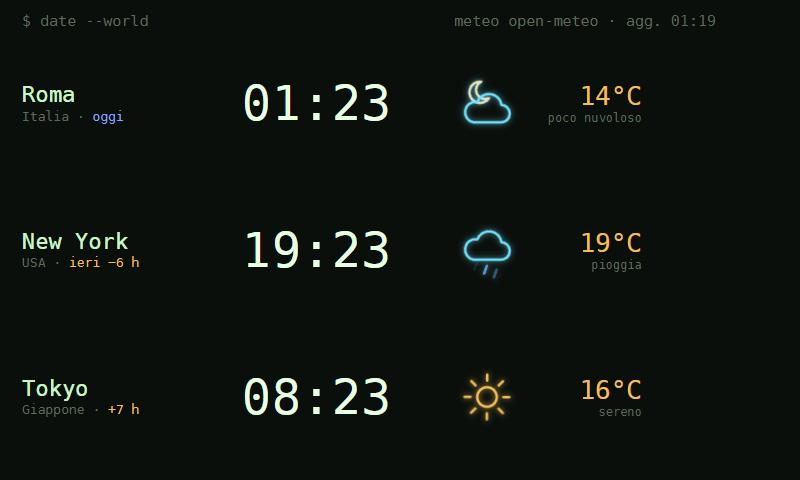
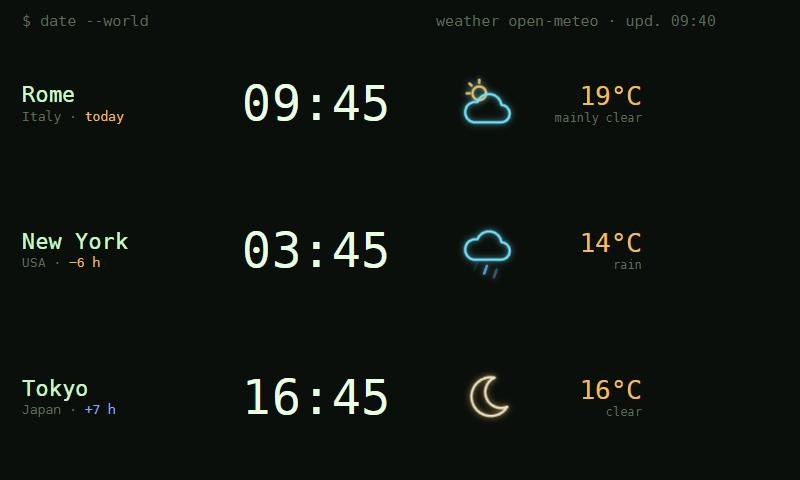
English by default, with an English/Italian language setting
All screen texts, settings labels and alerts now come from app/i18n.ts.
Pick the language in the app settings (default English); the display
switches at once, the setting labels after restarting DeskThing.
Apps are labelled Pi Status, Stack Status and World Clock (app ids
unchanged). Screenshots retaken in English.

diff --git a/app/server/index.ts b/app/server/index.ts
@@ -1,5 +1,6 @@
 import { createDeskThing } from "@deskthing/server";
 import { DESKTHING_EVENTS, SETTING_TYPES } from "@deskthing/types";
+import { isLang, LANGUAGE_OPTIONS, t, type Key, type Lang } from "../i18n";
 import { readFileSync } from "node:fs";
 import { join } from "node:path";
 
@@ -10,22 +11,23 @@ const DeskThing = createDeskThing();
 
 const DEFAULTS: City[] = [
   // defaults: change them in the app settings
-  { name: "Roma", country: "Italia", lat: 41.89193, lon: 12.51133, tz: "Europe/Rome" },
+  { name: "Rome", country: "Italy", lat: 41.89193, lon: 12.51133, tz: "Europe/Rome" },
   { name: "New York", country: "USA", lat: 40.71427, lon: -74.00597, tz: "America/New_York" },
-  { name: "Tokyo", country: "Giappone", lat: 35.6895, lon: 139.69171, tz: "Asia/Tokyo" },
+  { name: "Tokyo", country: "Japan", lat: 35.6895, lon: 139.69171, tz: "Asia/Tokyo" },
 ];
 const WEATHER_MS = 15 * 60 * 1000;
 
 let cities: City[] = DEFAULTS.map((c) => ({ ...c }));
 let weather: Weather[] = [null, null, null];
 let weatherAt = 0;
+let lang: Lang = "en";
 let weatherTimer: ReturnType<typeof setInterval> | null = null;
 let sendTimer: ReturnType<typeof setInterval> | null = null;
 
 // ---------------------------------------------------------------- jump to other apps
 // While the clock is on screen, important events switch the Car Thing to the
 // app that shows them: Pi questions / finished work -> Pi Status, a stack
-// down -> Homelab.
+// down -> Stack Status (app id "homelab").
 declare const __dirname: string;
 const HOMELAB_ALERT = join(__dirname, "..", "..", "homelab", "alert.json");
 let piUrl = "http://pi-host.local:8765/status"; // example: set yours in the app settings
@@ -51,8 +53,8 @@ async function watchPi() {
       next.set(s.pid, s.state);
       const prev = piStates.get(s.pid);
       if (piFirst || prev === undefined || !switchPi) continue;
-      if (prev !== "asking" && s.state === "asking") jump("pistatus", "Pi ti chiede · " + s.label);
-      else if (prev === "busy" && s.state === "idle") jump("pistatus", "Pi ha finito · " + s.label);
+      if (prev !== "asking" && s.state === "asking") jump("pistatus", t(lang, "piAsks", { label: s.label }));
+      else if (prev === "busy" && s.state === "idle") jump("pistatus", t(lang, "piDone", { label: s.label }));
     }
     piStates = next;
     piFirst = false;
@@ -75,7 +77,7 @@ function watchHomelab() {
   }
   if (at > lastAlertAt) {
     lastAlertAt = at;
-    if (switchHomelab) jump("homelab", "⚠ " + (alert?.text || "allarme Homelab"));
+    if (switchHomelab) jump("homelab", "⚠ " + (alert?.text || t(lang, "stackAlert")));
   }
 }
 
@@ -125,12 +127,17 @@ function send() {
       cities: cities.map((c) => ({ name: c.name, country: c.country, offset: offsetMinutes(c.tz) })),
       weather,
       weatherAt,
+      lang,
     },
   });
 }
 
 function readSettings(s: any) {
   if (!s) return;
+  if (isLang(s.language?.value) && s.language.value !== lang) {
+    lang = s.language.value;
+    send(); // the display follows at once; setting labels at next start
+  }
   if (typeof s.switch_pi?.value === "boolean") switchPi = s.switch_pi.value;
   if (typeof s.switch_homelab?.value === "boolean") switchHomelab = s.switch_homelab.value;
   if (typeof s.pi_url?.value === "string" && s.pi_url.value) piUrl = s.pi_url.value;
@@ -152,20 +159,35 @@ function readSettings(s: any) {
 }
 
 DeskThing.on(DESKTHING_EVENTS.START, async () => {
+  const before = (await DeskThing.getSettings()) as any;
+  if (isLang(before?.language?.value)) lang = before.language.value;
   const settings: any = {};
+  settings.language = {
+    id: "language",
+    label: t(lang, "setLanguage"),
+    description: t(lang, "setLanguageDesc"),
+    type: SETTING_TYPES.SELECT,
+    value: lang,
+    options: LANGUAGE_OPTIONS,
+  };
   DEFAULTS.forEach((c, i) => {
     const n = i + 1;
-    const add = (key: string, label: string, value: any, type = SETTING_TYPES.STRING) =>
-      (settings["city" + n + "_" + key] = { id: "city" + n + "_" + key, label: "Città " + n + " · " + label, type, value });
-    add("name", "nome", c.name);
-    add("country", "sottotitolo", c.country);
-    add("lat", "latitudine", String(c.lat));
-    add("lon", "longitudine", String(c.lon));
-    add("tz", "fuso orario (es. Europe/Rome)", c.tz);
+    const add = (key: string, value: any, type = SETTING_TYPES.STRING) =>
+      (settings["city" + n + "_" + key] = {
+        id: "city" + n + "_" + key,
+        label: t(lang, "setCity", { n, field: t(lang, ("f_" + key) as Key) }),
+        type,
+        value,
+      });
+    add("name", c.name);
+    add("country", c.country);
+    add("lat", String(c.lat));
+    add("lon", String(c.lon));
+    add("tz", c.tz);
   });
-  settings.switch_pi = { id: "switch_pi", label: "Passa a Pi Status (domande e lavori finiti)", type: SETTING_TYPES.BOOLEAN, value: true };
-  settings.switch_homelab = { id: "switch_homelab", label: "Passa a Homelab (servizi giù)", type: SETTING_TYPES.BOOLEAN, value: true };
-  settings.pi_url = { id: "pi_url", label: "Indirizzo stato Pi", type: SETTING_TYPES.STRING, value: piUrl };
+  settings.switch_pi = { id: "switch_pi", label: t(lang, "setSwitchPi"), type: SETTING_TYPES.BOOLEAN, value: true };
+  settings.switch_homelab = { id: "switch_homelab", label: t(lang, "setSwitchStack"), type: SETTING_TYPES.BOOLEAN, value: true };
+  settings.pi_url = { id: "pi_url", label: t(lang, "setPiUrl"), type: SETTING_TYPES.STRING, value: piUrl };
   await DeskThing.initSettings(settings);
   readSettings(await DeskThing.getSettings());
   fetchWeather();

diff --git a/app/client/main.ts b/app/client/main.ts
@@ -1,8 +1,9 @@
 import { createDeskThing } from "@deskthing/client";
+import { isLang, t, type Key, type Lang } from "../i18n";
 
 type CityInfo = { name: string; country: string; offset: number };
 type Weather = { temp: number; code: number; isDay: boolean } | null;
-type Clock = { now: number; cities: CityInfo[]; weather: Weather[]; weatherAt: number };
+type Clock = { now: number; cities: CityInfo[]; weather: Weather[]; weatherAt: number; lang?: Lang };
 
 const DeskThing = createDeskThing();
 
@@ -14,6 +15,8 @@ const $ = (id: string) => document.getElementById(id) as HTMLElement;
 
 let data: Clock | null = null;
 let skew = 0; // PC time minus Car Thing time (the device clock is not synced)
+let lang: Lang = "en";
+const tr = (key: Key, vars?: Record<string, string | number>) => t(lang, key, vars);
 
 // ---------------------------------------------------------------- neon icons
 
@@ -37,17 +40,17 @@ const ICONS: Record<string, string> = {
   fog: svg('<line class="fog1" stroke="#9aa6b2" x1="12" y1="24" x2="52" y2="24"/><line class="fog2" stroke="#9aa6b2" x1="8" y1="32" x2="48" y2="32"/><line class="fog1" stroke="#9aa6b2" x1="16" y1="40" x2="56" y2="40"/>'),
 };
 
-/** WMO weather code -> icon + Italian description. */
+/** WMO weather code -> icon + short description. */
 function describe(w: Weather): { icon: string; text: string } {
   if (!w) return { icon: "", text: "" };
   const c = w.code;
-  if (c === 0) return { icon: w.isDay ? "sun" : "moon", text: "sereno" };
-  if (c === 1 || c === 2) return { icon: w.isDay ? "pcd" : "pcn", text: c === 1 ? "quasi sereno" : "poco nuvoloso" };
-  if (c === 3) return { icon: "cloud", text: "coperto" };
-  if (c === 45 || c === 48) return { icon: "fog", text: "nebbia" };
-  if ((c >= 51 && c <= 57) || (c >= 61 && c <= 67) || (c >= 80 && c <= 82)) return { icon: "rain", text: c < 60 ? "pioviggine" : c >= 80 ? "rovesci" : "pioggia" };
-  if ((c >= 71 && c <= 77) || c === 85 || c === 86) return { icon: "snow", text: "neve" };
-  if (c >= 95) return { icon: "storm", text: "temporale" };
+  if (c === 0) return { icon: w.isDay ? "sun" : "moon", text: tr("w_clear") };
+  if (c === 1 || c === 2) return { icon: w.isDay ? "pcd" : "pcn", text: c === 1 ? tr("w_mainlyClear") : tr("w_partlyCloudy") };
+  if (c === 3) return { icon: "cloud", text: tr("w_overcast") };
+  if (c === 45 || c === 48) return { icon: "fog", text: tr("w_fog") };
+  if ((c >= 51 && c <= 57) || (c >= 61 && c <= 67) || (c >= 80 && c <= 82)) return { icon: "rain", text: c < 60 ? tr("w_drizzle") : c >= 80 ? tr("w_showers") : tr("w_rain") };
+  if ((c >= 71 && c <= 77) || c === 85 || c === 86) return { icon: "snow", text: tr("w_snow") };
+  if (c >= 95) return { icon: "storm", text: tr("w_storm") };
   return { icon: "cloud", text: "" };
 }
 
@@ -61,12 +64,12 @@ function localParts(utcMs: number, offsetMin: number) {
 }
 
 function diffLabel(i: number, now: number): string {
-  if (!data || i === 0) return "oggi";
+  if (!data || i === 0) return tr("today");
   const base = data.cities[0];
   const c = data.cities[i];
   const hours = (c.offset - base.offset) / 60;
   const dayDiff = localParts(now, c.offset).day - localParts(now, base.offset).day;
-  const day = dayDiff > 0 ? "domani " : dayDiff < 0 ? "ieri " : "";
+  const day = dayDiff > 0 ? tr("tomorrow") + " " : dayDiff < 0 ? tr("yesterday") + " " : "";
   const h = (hours > 0 ? "+" : hours < 0 ? "−" : "±") + (Math.abs(hours) % 1 ? Math.abs(hours).toFixed(1) : Math.abs(hours)) + " h";
   return day + h;
 }
@@ -106,13 +109,17 @@ function render() {
   });
   if (data.weatherAt) {
     const u = localParts(data.weatherAt, data.cities[0].offset);
-    $("upd").textContent = "meteo open-meteo · agg. " + two(u.h) + ":" + two(u.m);
+    $("upd").textContent = tr("updated", { time: two(u.h) + ":" + two(u.m) });
   }
 }
 
 DeskThing.on("clock", (msg: any) => {
   data = msg.payload as Clock;
   skew = data.now - Date.now();
+  if (isLang(data.lang) && data.lang !== lang) {
+    lang = data.lang;
+    document.documentElement.lang = lang;
+  }
   render();
 });
 

diff --git a/app/i18n.ts b/app/i18n.ts
@@ -1,0 +1,90 @@
+// User-facing strings, English (default) and Italian.
+// Used by both the server (settings labels, switch banners) and the client.
+
+export type Lang = "en" | "it";
+
+const STRINGS = {
+  en: {
+    // weather
+    w_clear: "clear",
+    w_mainlyClear: "mainly clear",
+    w_partlyCloudy: "partly cloudy",
+    w_overcast: "overcast",
+    w_fog: "fog",
+    w_drizzle: "drizzle",
+    w_showers: "showers",
+    w_rain: "rain",
+    w_snow: "snow",
+    w_storm: "thunderstorm",
+    // screen
+    connecting: "connecting…",
+    today: "today",
+    tomorrow: "tomorrow",
+    yesterday: "yesterday",
+    updated: "weather open-meteo · upd. {time}",
+    piAsks: "Pi is asking · {label}",
+    piDone: "Pi is done · {label}",
+    stackAlert: "Stack Status alert",
+    // settings
+    setLanguage: "Language",
+    setLanguageDesc: "Language of the app (setting labels change after restarting DeskThing)",
+    setCity: "City {n} · {field}",
+    f_name: "name",
+    f_country: "subtitle",
+    f_lat: "latitude",
+    f_lon: "longitude",
+    f_tz: "time zone (e.g. Europe/Rome)",
+    setSwitchPi: "Switch to Pi Status (questions and finished work)",
+    setSwitchStack: "Switch to Stack Status (services down)",
+    setPiUrl: "Pi status URL",
+  },
+  it: {
+    w_clear: "sereno",
+    w_mainlyClear: "quasi sereno",
+    w_partlyCloudy: "poco nuvoloso",
+    w_overcast: "coperto",
+    w_fog: "nebbia",
+    w_drizzle: "pioviggine",
+    w_showers: "rovesci",
+    w_rain: "pioggia",
+    w_snow: "neve",
+    w_storm: "temporale",
+    connecting: "collegamento…",
+    today: "oggi",
+    tomorrow: "domani",
+    yesterday: "ieri",
+    updated: "meteo open-meteo · agg. {time}",
+    piAsks: "Pi ti chiede · {label}",
+    piDone: "Pi ha finito · {label}",
+    stackAlert: "allarme Stack Status",
+    setLanguage: "Lingua",
+    setLanguageDesc: "Lingua dell'app (le voci delle impostazioni cambiano dopo il riavvio di DeskThing)",
+    setCity: "Città {n} · {field}",
+    f_name: "nome",
+    f_country: "sottotitolo",
+    f_lat: "latitudine",
+    f_lon: "longitudine",
+    f_tz: "fuso orario (es. Europe/Rome)",
+    setSwitchPi: "Passa a Pi Status (domande e lavori finiti)",
+    setSwitchStack: "Passa a Stack Status (servizi giù)",
+    setPiUrl: "Indirizzo stato Pi",
+  },
+};
+
+export type Key = keyof typeof STRINGS.en;
+
+export const LANGUAGE_OPTIONS = [
+  { label: "English", value: "en" },
+  { label: "Italiano", value: "it" },
+];
+
+export function isLang(v: unknown): v is Lang {
+  return v === "en" || v === "it";
+}
+
+/** Translate a key; {placeholders} are filled from vars. */
+export function t(lang: Lang, key: Key, vars: Record<string, string | number> = {}): string {
+  let s: string = (STRINGS[lang] || STRINGS.en)[key] || STRINGS.en[key];
+  for (const k in vars) s = s.split("{" + k + "}").join(String(vars[k]));
+  return s;
+}

diff --git a/app/client/index.html b/app/client/index.html
@@ -1,9 +1,9 @@
 <!doctype html>
-<html lang="it">
+<html lang="en">
 <head>
 <meta charset="utf-8" />
 <meta name="viewport" content="width=device-width, initial-scale=1" />
-<title>Orologio</title>
+<title>World Clock</title>
 <style>
   * { box-sizing: border-box; margin: 0; padding: 0; }
   html, body { height: 100%; }
@@ -68,7 +68,7 @@
 <body>
   <div class="app">
     <div class="hd"><span>$ date --world</span><span id="upd" class="upd"></span></div>
-    <div id="rows" class="rows"><div class="row"><span class="city">collegamento…</span></div></div>
+    <div id="rows" class="rows"><div class="row"><span class="city">connecting…</span></div></div>
   </div>
   <div id="alert" class="alert"><div id="alert-text"></div></div>
   <script src="./main.js"></script>

diff --git a/README.it.md b/README.it.md
@@ -1,4 +1,4 @@
-# World Clock (Orologio) per DeskThing
+# World Clock per DeskThing
 
 🇬🇧 [Read in English](README.md)
 
@@ -7,7 +7,7 @@ ognuna con la temperatura e un'**icona meteo neon animata**, in stile terminale.
 
 ![Tre città con ora, temperatura e icone meteo neon animate](docs/clock.jpg)
 
-*Screenshot alla risoluzione del Car Thing (800×480), con città di esempio.*
+*Screenshot alla risoluzione del Car Thing (800×480), con città di esempio, in inglese (lingua predefinita).*
 
 - Ora e fuso di ogni città, con la differenza rispetto alla prima ("−6 h", "domani +5 h").
   L'ora legale è gestita in automatico.
@@ -17,6 +17,7 @@ ognuna con la temperatura e un'**icona meteo neon animata**, in stile terminale.
 - Mentre l'orologio è sullo schermo, gli eventi importanti **cambiano app** sul Car Thing:
   Pi fa una domanda o finisce un lavoro → [Pi Status](https://github.com/franzo-ux/deskthing-pi-status);
   un servizio va giù → [Stack Status](https://github.com/franzo-ux/deskthing-stack-status).
+- **Italiano o inglese**: la lingua si sceglie nelle impostazioni (predefinita: inglese).
 
 ## Requisiti
 
@@ -32,10 +33,13 @@ npm run build          # → dist/worldclock
 npm run deploy         # copia l'app in DeskThing e la registra
 ```
 
-Riapri DeskThing e apri **Orologio** sul Car Thing. Per aggiornare in futuro: `npm run build`,
+Riapri DeskThing e apri **World Clock** sul Car Thing. Per aggiornare in futuro: `npm run build`,
 `npm run deploy -- --files`, riavvia DeskThing.
 
-## Impostazioni (DeskThing → App → Orologio)
+## Impostazioni (DeskThing → App → World Clock)
+
+**Language / Lingua**: **English** (predefinita) o **Italiano** (lo schermo cambia subito, le voci
+delle impostazioni dopo il riavvio di DeskThing).
 
 Per ognuna delle 3 città: **nome**, **sottotitolo** (paese/regione), **latitudine**, **longitudine** e
 **fuso orario** (nome IANA, es. `Europe/Rome`, `America/New_York`, `Asia/Tokyo`).
@@ -51,7 +55,7 @@ Cambio automatico di app (facoltativo, servono quelle app installate):
 | Impostazione | Significato |
 |---|---|
 | Passa a Pi Status | passa a Pi Status quando Pi ti chiede qualcosa o finisce |
-| Passa a Homelab | passa a Stack Status quando un servizio va giù |
+| Passa a Stack Status | passa a Stack Status quando un servizio va giù |
 | Indirizzo stato Pi | URL del servizio di stato di Pi, es. `http://pi-host.local:8765/status` |
 
 ## Come funziona

diff --git a/README.md b/README.md
@@ -16,6 +16,7 @@ each with its temperature and an **animated neon weather icon**, in a terminal-s
 - While the clock is on screen, important events **switch the Car Thing** to the app that shows them:
   Pi asks a question or finishes a job → [Pi Status](https://github.com/franzo-ux/deskthing-pi-status);
   a service goes down → [Stack Status](https://github.com/franzo-ux/deskthing-stack-status).
+- **English or Italian**: pick the language in the settings.
 
 ## Requirements
 
@@ -31,10 +32,13 @@ npm run build          # → dist/worldclock
 npm run deploy         # copies the app into DeskThing and registers it
 ```
 
-Start DeskThing and open **Orologio** on the Car Thing. To update later: `npm run build`,
+Start DeskThing and open **World Clock** on the Car Thing. To update later: `npm run build`,
 `npm run deploy -- --files`, restart DeskThing.
 
-## Settings (DeskThing → Apps → Orologio)
+## Settings (DeskThing → Apps → World Clock)
+
+**Language**: **English** (default) or **Italiano** (the screen switches at once, the setting labels
+after restarting DeskThing).
 
 For each of the 3 cities: **name**, **subtitle** (country/region), **latitude**, **longitude** and
 **time zone** (IANA name, e.g. `Europe/Rome`, `America/New_York`, `Asia/Tokyo`).
@@ -49,9 +53,9 @@ Switching to other apps (optional, needs those apps installed):
 
 | Setting | Meaning |
 |---|---|
-| Passa a Pi Status | jump to Pi Status when Pi asks something or finishes |
-| Passa a Homelab | jump to Stack Status when a service goes down |
-| Indirizzo stato Pi | URL of the Pi status service, e.g. `http://pi-host.local:8765/status` |
+| Switch to Pi Status | jump to Pi Status when Pi asks something or finishes |
+| Switch to Stack Status | jump to Stack Status when a service goes down |
+| Pi status URL | URL of the Pi status service, e.g. `http://pi-host.local:8765/status` |
 
 ## How it works
 
